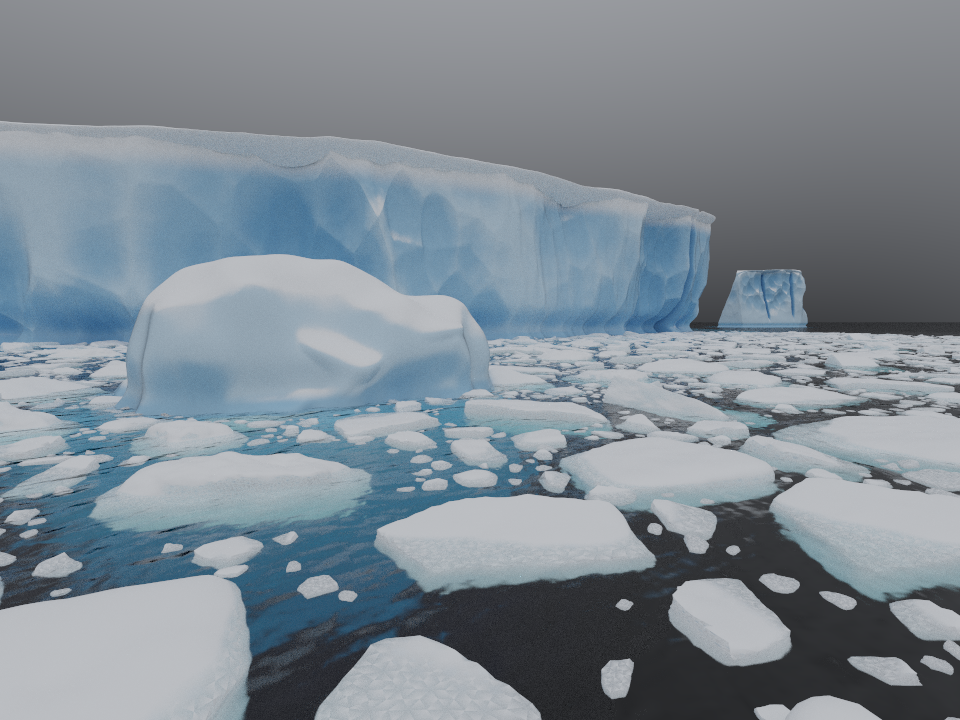
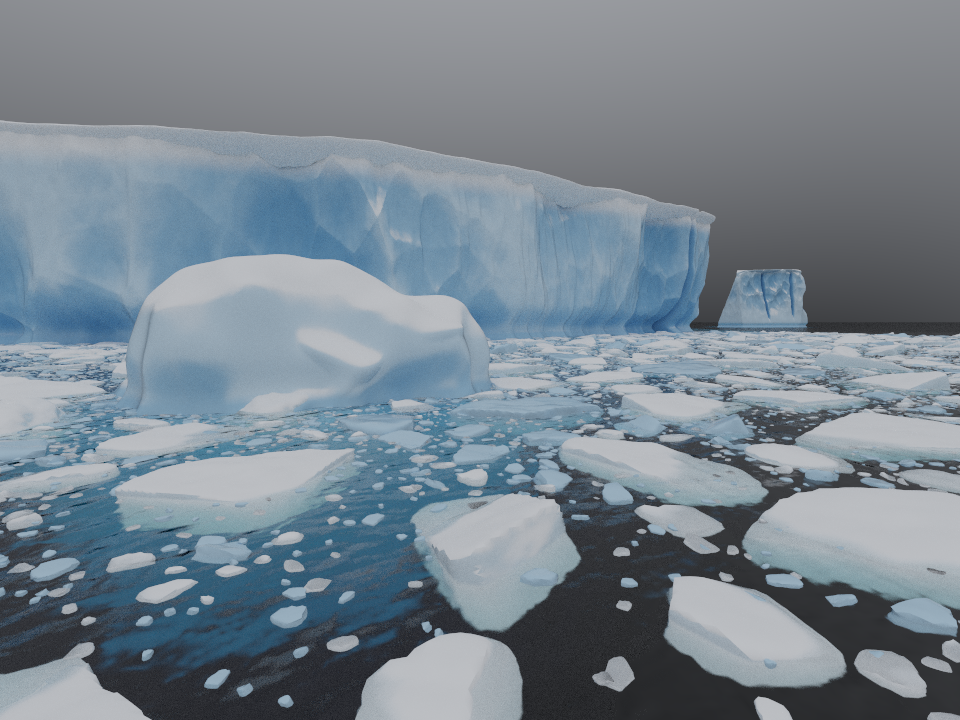
Icebergs: folded cliffs, glossy wet brash, fine debris
- Cliffs fold in upright creases and buttresses a few metres across.
- Small brash pieces are often wet ice melted smooth: glossy, snowless,
  a shade darker than the white plates (carried per piece as a texture
  coordinate); creases kept only above 50 degrees, so near pieces don't
  show their triangles.
- The scene adds a field of fine debris between the plates.

Claude-Session: https://claude.ai/code/session_01U8ZZipMaWkahSeibBW3vnt

Changed region(s): [[0.0, 0.4583, 1.0, 1.0], [0.625, 0.9167, 0.6562, 0.9778], [0.9688, 0.9778, 1.0, 1.0]]

diff --git a/src/procedural/iceberg.rs b/src/procedural/iceberg.rs
@@ -292,6 +292,10 @@ impl Iceberg {
             // Fine vertical streaks where meltwater runs down, and drifts on the snow.
             let streaks = 0.05 * noise.noise(Vector3::new(m.x / 0.7, m.y / 7., m.z / 0.7))
                 + 0.22 * noise.noise(Vector3::new(m.x / 1.6, m.y / 14., m.z / 1.6) + Vector3::new(9., 0., 4.));
+            // Crumpled: the cliff folds in upright creases and buttresses a few metres across.
+            let fold = |w: f64, o: f64| noise.ridged(Vector3::new(m.x / w, m.y / (4. * w), m.z / w) + Vector3::repeat(o), 3) - 0.5;
+            let folds = 0.06 * big * fold(0.4 * big, 11.) + 0.02 * big * fold(0.13 * big, 23.);
+            let streaks = if rounded { streaks } else { streaks + folds };
             let drifts = 0.5 * noise.fbm(m / 14., 3) * top;
             // How freshly broken the ice here is, 0 to 1: the deeper it was cut back, the less
             // weathered (and the bluer: `IcebergMaterial`).
@@ -570,6 +574,8 @@ pub struct IcebergMaterial {
     white: Ice,
     glacier: Ice,
     blue: Ice,
+    /// Wet ice melted smooth: glossy, and greyer than the white pieces.
+    clear: Ice,
     snow: Snow,
     /// The berg's length, m.
     size: f64,
@@ -590,6 +596,7 @@ impl IcebergMaterial {
             glacier: clean("glacier", 0.15),
             // Dense ice with few bubbles, as deep in a glacier: a saturated blue.
             blue: Ice::new(IceStyle { bubble_radius: 0.7, bubbles: 1.2, impurities: Default::default(), roughness: 0.08 }),
+            clear: Ice::new(IceStyle { bubble_radius: 0.6, bubbles: 9., impurities: Default::default(), roughness: 0.04 }),
             snow: Snow::new(SnowStyle { sparkle: 0., ..SnowStyle::preset("settled") }, 1., seed),
             size,
             noise: SeededNoise::new(seed.wrapping_add(17)),
@@ -632,10 +639,15 @@ impl MaterialModel for IcebergMaterial {
         let outside = r.rd.dot(&intersection.normal) < 0.;
         let i = &intersection.facing(r);
         let f = crate::material::functions::scatter_bsdf;
+        let (snow, fresh) = if self.body.is_some() { (if fresh > 0.5 { 0. } else { snow }, fresh) } else { (snow, fresh) };
         if outside && rand() < snow {
             return f(&self.snow.bsdf(&i.point, &i.normal, Some(s)), r, &i.point, s);
         }
         if let Some(body) = &self.body {
+            // Brash: for it the first texture coordinate says a piece is clear ice.
+            if fresh > 0.5 {
+                return f(&self.clear.bsdf(&i.normal, Some(s)), r, &i.point, s);
+            }
             return if outside && rand() < 0.6 * white {
                 f(&self.white.bsdf(&i.normal, Some(s)), r, &i.point, s)
             } else {
@@ -792,6 +804,7 @@ impl FloeField {
         let spheres: Vec<(Vec<Vector3<f64>>, Vec<[usize; 3]>)> = (0..=6).map(icosphere).collect();
         let mut positions = vec![];
         let mut triangles = vec![];
+        let mut texcoords = vec![];
         let fraction = 1. - 917. / SEA_WATER_DENSITY;
         for f in &floes {
             let r = f.radius * 0.95;
@@ -873,11 +886,15 @@ impl FloeField {
             for p in piece.iter_mut() {
                 *p = ride * (*p - pivot) + Vector3::new(f.x, self.sea_level + rise, f.z);
             }
+            // Small pieces are often clear ice: melted smooth, washed by the waves, glassy and
+            // dark against the white ones. (Carried as a texture coordinate.)
+            let clear = !lump && rng.next_f64() < 0.15 + 0.5 * (1. - smoothstep(0.3, 1.2, r));
+            texcoords.extend(std::iter::repeat_n(crate::na::Vector2::new(clear as u8 as f64, 0.), piece.len()));
             positions.extend(piece);
             triangles.extend(sphere.iter().map(|t| t.map(|i| i + start)));
         }
         println!("Brash: {} pieces, {} triangles", floes.len(), triangles.len());
-        creased(&IndexedMesh { positions, normals: vec![], triangles, texcoords: vec![] }, 35f64.to_radians().cos())
+        creased(&IndexedMesh { positions, normals: vec![], triangles, texcoords }, 50f64.to_radians().cos())
     }
 
     /// How the waves carry floe `f`: the surface's height at its centre, and the turn that
